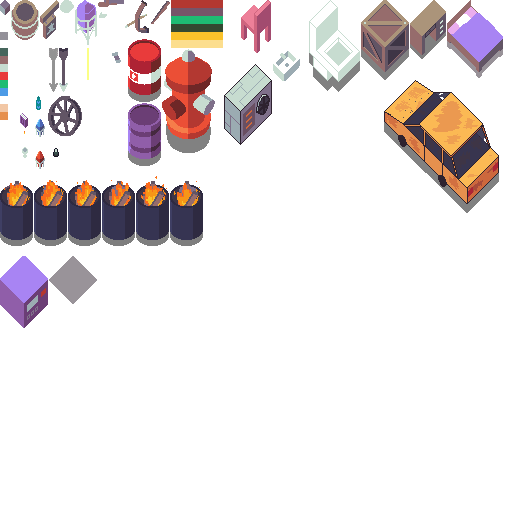
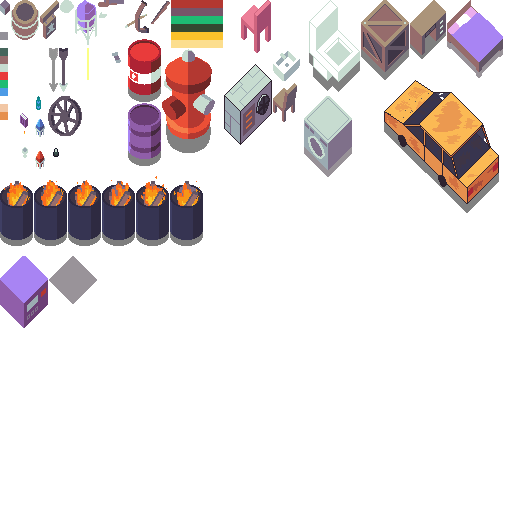
0.7.148

Changed region(s): [[0.5312, 0.1562, 0.6875, 0.3438]]

diff --git a/bleed-server/lib/src/classes/src/game.dart b/bleed-server/lib/src/classes/src/game.dart
@@ -2349,7 +2349,6 @@ abstract class Game {
   }
 
   void updateColliderSceneCollisionVertical(Collider collider) {
-
     if (!scene.isInboundV3(collider)) {
       if (collider.z > -100) return;
       deactivateCollider(collider);
@@ -2359,51 +2358,56 @@ abstract class Game {
       return;
     }
 
-    while (true) {
-      final bottomZ = collider.z;
-      final nodeBottomIndex = scene.getNodeIndexXYZ(collider.x, collider.y, bottomZ);
-      final nodeBottomOrientation = scene.nodeOrientations[nodeBottomIndex];
-      final nodeBottomType = scene.nodeTypes[nodeBottomIndex];
+    final bottomZ = collider.z;
+    final nodeBottomIndex =
+        scene.getNodeIndexXYZ(collider.x, collider.y, bottomZ);
+    final nodeBottomOrientation = scene.nodeOrientations[nodeBottomIndex];
+    final nodeBottomType = scene.nodeTypes[nodeBottomIndex];
 
-      if (nodeBottomOrientation == NodeOrientation.Solid) {
-        collider.z = ((bottomZ ~/ Node_Height) * Node_Height) + Node_Height;
-        if (collider.velocityZ < 0){
-          if (collider.bounce){
-            collider.velocityZ = -collider.velocityZ * GamePhysics.Bounce_Friction;
-            dispatchV3(GameEventType.Item_Bounce, collider, angle: -collider.velocityZ);
-          } else {
-            collider.velocityZ = 0;
-          }
-        }
-        continue;
-      }
-
-      if (nodeBottomOrientation != NodeOrientation.None) {
-        final percX = ((collider.x % Node_Size) / Node_Size);
-        final percY = ((collider.y % Node_Size) / Node_Size);
-        final nodeBottom = (bottomZ ~/ Node_Height) * Node_Height;
-        final nodeTop = nodeBottom + (NodeOrientation.getGradient(nodeBottomOrientation, percX, percY) * Node_Height);
-        if (nodeTop <= bottomZ) return;
-        collider.z = nodeTop;
-
-        if (collider.velocityZ < 0) {
-           if (collider.bounce){
-             collider.velocityZ = -collider.velocityZ * GamePhysics.Bounce_Friction;
-             dispatchV3(GameEventType.Item_Bounce, collider, angle: -collider.velocityZ);
-           } else {
-             collider.velocityZ = 0;
-           }
-        }
-        continue;
-      }
-
-      if (nodeBottomType == NodeType.Water) {
-        if (collider.z % Node_Height < Node_Height_Half){
-          internalOnColliderEnteredWater(collider);
+    if (nodeBottomOrientation == NodeOrientation.Solid) {
+      collider.z = ((bottomZ ~/ Node_Height) * Node_Height) + Node_Height;
+      if (collider.velocityZ < 0) {
+        if (collider.bounce) {
+          collider.velocityZ =
+              -collider.velocityZ * GamePhysics.Bounce_Friction;
+          dispatchV3(GameEventType.Item_Bounce, collider,
+              angle: -collider.velocityZ);
+        } else {
+          collider.velocityZ = 0;
         }
       }
       return;
     }
+
+    if (nodeBottomOrientation != NodeOrientation.None) {
+      final percX = ((collider.x % Node_Size) / Node_Size);
+      final percY = ((collider.y % Node_Size) / Node_Size);
+      final nodeBottom = (bottomZ ~/ Node_Height) * Node_Height;
+      final nodeTop = nodeBottom +
+          (NodeOrientation.getGradient(nodeBottomOrientation, percX, percY) *
+              Node_Height);
+      if (nodeTop <= bottomZ) return;
+      collider.z = nodeTop;
+
+      if (collider.velocityZ < 0) {
+        if (collider.bounce) {
+          collider.velocityZ =
+              -collider.velocityZ * GamePhysics.Bounce_Friction;
+          dispatchV3(GameEventType.Item_Bounce, collider,
+              angle: -collider.velocityZ);
+        } else {
+          collider.velocityZ = 0;
+        }
+      }
+      return;
+    }
+
+    if (nodeBottomType == NodeType.Water) {
+      if (collider.z % Node_Height < Node_Height_Half) {
+        internalOnColliderEnteredWater(collider);
+      }
+    }
+    return;
   }
 
   void setNode({

diff --git a/gamestream_flutter/lib/game_atlas.dart b/gamestream_flutter/lib/game_atlas.dart
@@ -26,6 +26,8 @@ class AtlasItems {
         ItemType.GameObjects_Bed: 447,
         ItemType.GameObjects_Sink: 273,
         ItemType.GameObjects_Firehydrant: 162,
+        ItemType.GameObjects_Chair: 273,
+        ItemType.GameObjects_Washing_Machine: 304,
         ItemType.Trinket_Ring_of_Health: 256,
         ItemType.Trinket_Ring_of_Damage: 288,
         ItemType.Empty: 224,
@@ -112,6 +114,8 @@ class AtlasItems {
         ItemType.GameObjects_Firehydrant: 49,
         ItemType.GameObjects_Aircon_South: 64,
         ItemType.GameObjects_Sink: 48,
+        ItemType.GameObjects_Chair: 83,
+        ItemType.GameObjects_Washing_Machine: 96,
         ItemType.Trinket_Ring_of_Health: 32,
         ItemType.Trinket_Ring_of_Damage: 32,
         ItemType.Weapon_Ranged_Shotgun: 32,
@@ -191,6 +195,8 @@ class AtlasItems {
         ItemType.GameObjects_Firehydrant: 53,
         ItemType.GameObjects_Aircon_South: 48,
         ItemType.GameObjects_Sink: 27,
+        ItemType.GameObjects_Chair: 24,
+        ItemType.GameObjects_Washing_Machine: 48,
         ItemType.Weapon_Rifle_Sniper: 48,
         ItemType.Weapon_Flamethrower: 64,
         ItemType.Weapon_Special_Bazooka: 48,
@@ -210,6 +216,7 @@ class AtlasItems {
         ItemType.GameObjects_Cup: 11,
         ItemType.GameObjects_Tavern_Sign: 39,
         ItemType.GameObjects_Firehydrant: 104,
+        ItemType.GameObjects_Washing_Machine: 81,
         ItemType.GameObjects_Grenade: 9,
         ItemType.GameObjects_Crystal_Small_Blue: 18,
         ItemType.GameObjects_Crystal_Small_Red: 18,
@@ -218,11 +225,11 @@ class AtlasItems {
         ItemType.GameObjects_Bed: 78,
         ItemType.GameObjects_Aircon_South: 81,
         ItemType.GameObjects_Sink: 33,
+        ItemType.GameObjects_Chair: 39,
         ItemType.Weapon_Rifle_Sniper: 16,
         ItemType.Weapon_Special_Bazooka: 16,
         ItemType.Weapon_Special_Minigun: 12,
   }[itemType] ?? size;
-
 
   static double getSrcScale(int itemType) => const <int, double> {
         ItemType.GameObjects_Barrel_Explosive: 0.75,
@@ -234,6 +241,7 @@ class AtlasItems {
         ItemType.GameObjects_Car: 0.66,
         ItemType.GameObjects_Aircon_South: 0.6,
         ItemType.GameObjects_Sink: 0.75,
+        ItemType.GameObjects_Washing_Machine: 0.75,
   }[itemType] ?? 1.0;
 
   static double getAnchorY(int itemType) => const <int, double> {

diff --git a/bleed-common/lib/src/item_type.dart b/bleed-common/lib/src/item_type.dart
@@ -89,6 +89,8 @@ class ItemType {
   static const GameObjects_Firehydrant          = Index_GameObjects + 26;
   static const GameObjects_Aircon_South         = Index_GameObjects + 27;
   static const GameObjects_Sink                 = Index_GameObjects + 28;
+  static const GameObjects_Chair                = Index_GameObjects + 29;
+  static const GameObjects_Washing_Machine      = Index_GameObjects + 30;
 
   static const Resource_Wood = Index_Resources + 5;
   static const Resource_Stone = Index_Resources + 6;
@@ -253,6 +255,7 @@ class ItemType {
     GameObjects_Toilet,
     GameObjects_Aircon_South,
     GameObjects_Sink,
+    GameObjects_Washing_Machine,
   ].contains(value);
 
   static bool isInteractable(int value) => const [
@@ -276,6 +279,8 @@ class ItemType {
         GameObjects_Aircon_South,
         GameObjects_Tavern_Sign,
         GameObjects_Sink,
+        GameObjects_Chair,
+        GameObjects_Washing_Machine,
       ].contains(value);
 
   static bool isTypeEquipped(int value) =>
@@ -675,6 +680,8 @@ class ItemType {
      GameObjects_Vending_Machine: "Vending Machine",
      GameObjects_Firehydrant: "Fire Hydrant",
      GameObjects_Sink: "Sink",
+     GameObjects_Chair: "Chair",
+     GameObjects_Washing_Machine: "Washing Machine",
   }[value] ?? "item-type-unknown($value)";
 
 
@@ -794,9 +801,10 @@ class ItemType {
      GameObjects_Car,
      GameObjects_Aircon_South,
      GameObjects_Sink,
+     GameObjects_Chair,
+     GameObjects_Washing_Machine,
   ];
 
-  
   static bool isTypeBarrel(int type)=> const [
       GameObjects_Barrel,
       GameObjects_Barrel_Explosive,
@@ -812,6 +820,7 @@ class ItemType {
     GameObjects_Vending_Machine,
     GameObjects_Firehydrant,
     GameObjects_Car,
+    GameObjects_Washing_Machine,
   ].contains(type);
 }
 

diff --git a/bleed-server/lib/common/src/item_type.dart b/bleed-server/lib/common/src/item_type.dart
@@ -89,6 +89,8 @@ class ItemType {
   static const GameObjects_Firehydrant          = Index_GameObjects + 26;
   static const GameObjects_Aircon_South         = Index_GameObjects + 27;
   static const GameObjects_Sink                 = Index_GameObjects + 28;
+  static const GameObjects_Chair                = Index_GameObjects + 29;
+  static const GameObjects_Washing_Machine      = Index_GameObjects + 30;
 
   static const Resource_Wood = Index_Resources + 5;
   static const Resource_Stone = Index_Resources + 6;
@@ -253,6 +255,7 @@ class ItemType {
     GameObjects_Toilet,
     GameObjects_Aircon_South,
     GameObjects_Sink,
+    GameObjects_Washing_Machine,
   ].contains(value);
 
   static bool isInteractable(int value) => const [
@@ -276,6 +279,8 @@ class ItemType {
         GameObjects_Aircon_South,
         GameObjects_Tavern_Sign,
         GameObjects_Sink,
+        GameObjects_Chair,
+        GameObjects_Washing_Machine,
       ].contains(value);
 
   static bool isTypeEquipped(int value) =>
@@ -675,6 +680,8 @@ class ItemType {
      GameObjects_Vending_Machine: "Vending Machine",
      GameObjects_Firehydrant: "Fire Hydrant",
      GameObjects_Sink: "Sink",
+     GameObjects_Chair: "Chair",
+     GameObjects_Washing_Machine: "Washing Machine",
   }[value] ?? "item-type-unknown($value)";
 
 
@@ -794,9 +801,10 @@ class ItemType {
      GameObjects_Car,
      GameObjects_Aircon_South,
      GameObjects_Sink,
+     GameObjects_Chair,
+     GameObjects_Washing_Machine,
   ];
 
-  
   static bool isTypeBarrel(int type)=> const [
       GameObjects_Barrel,
       GameObjects_Barrel_Explosive,
@@ -812,6 +820,7 @@ class ItemType {
     GameObjects_Vending_Machine,
     GameObjects_Firehydrant,
     GameObjects_Car,
+    GameObjects_Washing_Machine,
   ].contains(type);
 }
 

diff --git a/bleed-server/lib/src/game_physics.dart b/bleed-server/lib/src/game_physics.dart
@@ -7,7 +7,7 @@ class GamePhysics {
   static const Min_Velocity = 0.005;
   static const Projectile_Radius = 10.0;
   static const Projectile_Z_Velocity = 0.05;
-  static const Max_Velocity = 10.0;
+  static const Max_Velocity = 7.0;
   static const Max_Throw_Velocity = 15.0;
   static const Max_Throw_Velocity_Z = 10;
   static const Max_Throw_Distance = 400.0;

diff --git a/gamestream_flutter/lib/game_state.dart b/gamestream_flutter/lib/game_state.dart
@@ -91,6 +91,10 @@ class GameState {
             index: nodeIndex,
             alpha: 0,
           );
+          // GameNodes.emitLightAmbient(
+          //   index: nodeIndex + GameNodes.area,
+          //   alpha: 0,
+          // );
           break;
       }
     }

diff --git a/bleed-common/lib/src/version.dart b/bleed-common/lib/src/version.dart
@@ -1,4 +1,4 @@
-const version = '0.7.147';
+const version = '0.7.148';
 
 
 

diff --git a/bleed-server/lib/common/src/version.dart b/bleed-server/lib/common/src/version.dart
@@ -1,4 +1,4 @@
-const version = '0.7.147';
+const version = '0.7.148';
 
 
 

diff --git a/gamestream_flutter/README.md b/gamestream_flutter/README.md
@@ -14,6 +14,8 @@ ctrl + w:   minimal mode
 [ ] feature weapon upgrades
 
 08.02.2023
+[x] gameobject washing machine
+[x] gameobject chair
 [x] gameobject sink
 [x] node type bookshelf
 [x] feature grass and trees shed half shadow
